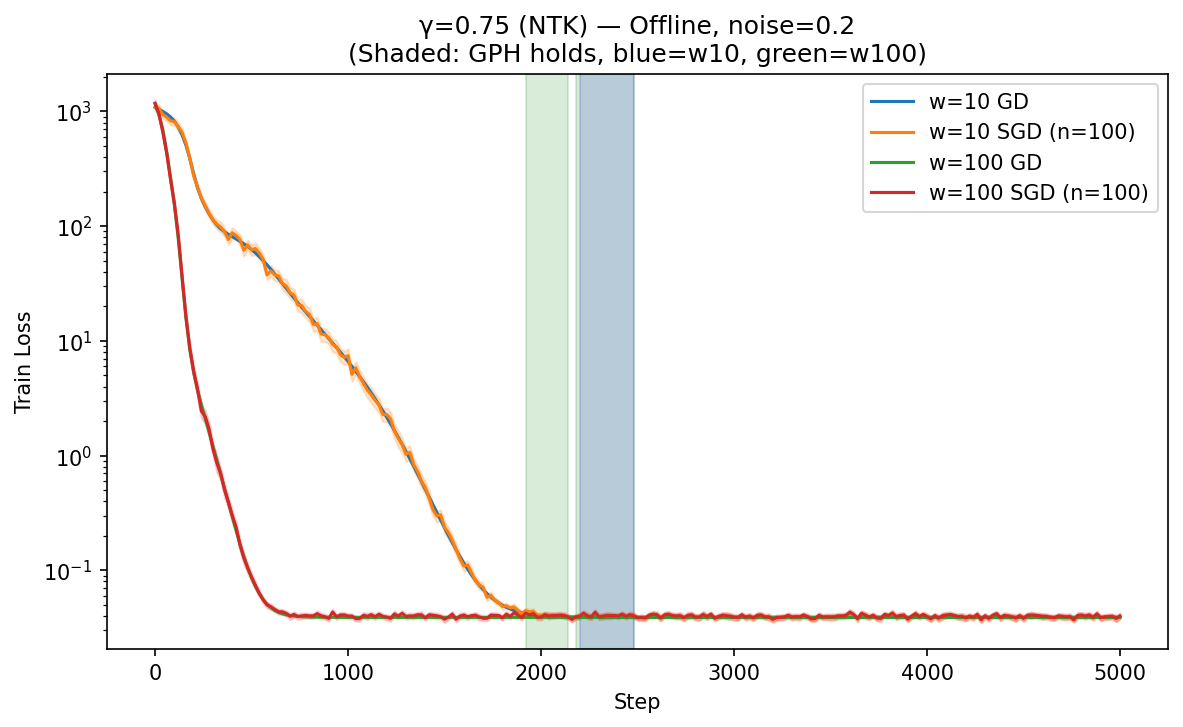
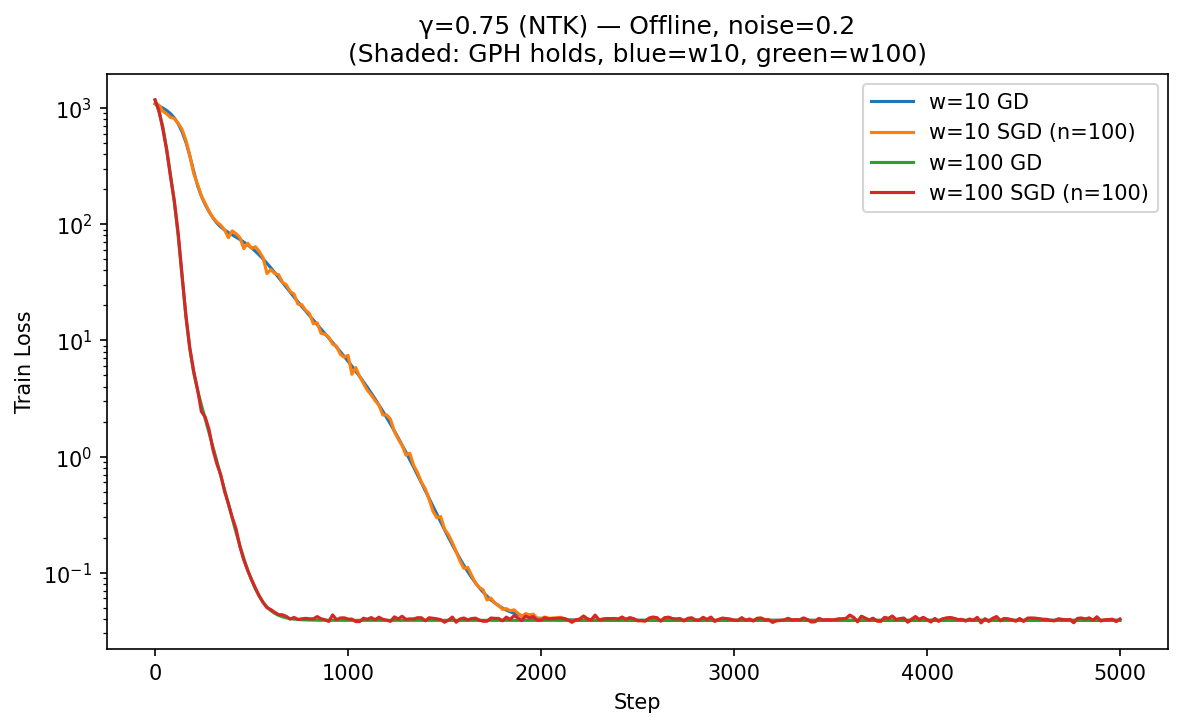
..

diff --git a/plot_100.py b/plot_100.py
@@ -3,21 +3,18 @@ Plot GD vs averaged SGD for width experiments.
 """
 
 # %%
+import json
 import matplotlib.pyplot as plt
 import numpy as np
 from pathlib import Path
 
 from runner import load_run
-from plotting import plot, compute_ci
-
-plt.style.use("seaborn-v0_8-whitegrid")
 
 # %%
 BASE_PATH = Path("outputs/gph_w100")
 FIGURES_PATH = Path("figures/gph_w100")
 FIGURES_PATH.mkdir(parents=True, exist_ok=True)
 
-N_SEEDS = 100
 BATCH_SIZE = 5
 
 WIDTHS = [10, 100]
@@ -34,26 +31,28 @@ MIN_REGION_STEPS = 500
 # =============================================================================
 
 
-def get_path(
-    width: int, gamma: float, batch: int | None, seed: int, online: bool, noise: float
-) -> Path:
-    b_str = "None" if batch is None else str(batch)
-    return BASE_PATH / f"h{width}_g{gamma}_b{b_str}_s{seed}_online{online}_noise{noise}"
+def get_gd_path(width: int, gamma: float, online: bool, noise: float) -> Path:
+    b_str = "500" if online else "None"
+    return BASE_PATH / f"h{width}_g{gamma}_b{b_str}_s0_online{online}_noise{noise}"
+
+
+def get_avg_path(width: int, gamma: float, online: bool, noise: float) -> Path:
+    return (
+        BASE_PATH / f"h{width}_g{gamma}_b{BATCH_SIZE}_avg_online{online}_noise{noise}"
+    )
 
 
 def load_gd(width: int, gamma: float, online: bool, noise: float):
-    batch = 500 if online else None
-    path = get_path(width, gamma, batch, 0, online, noise)
+    path = get_gd_path(width, gamma, online, noise)
     return load_run(path) if path.exists() else None
 
 
-def load_sgd(width: int, gamma: float, online: bool, noise: float):
-    runs = []
-    for seed in range(N_SEEDS):
-        path = get_path(width, gamma, BATCH_SIZE, seed, online, noise)
-        if path.exists() and (path / "history.json").exists():
-            runs.append(load_run(path))
-    return runs
+def load_sgd_avg(width: int, gamma: float, online: bool, noise: float) -> dict | None:
+    path = get_avg_path(width, gamma, online, noise)
+    if not path.exists():
+        return None
+    with open(path / "history.json") as f:
+        return json.load(f)
 
 
 # %%
@@ -89,15 +88,14 @@ def shade_regions(ax, regions, color, alpha=0.15):
 
 def get_regions(width: int, gamma: float, online: bool, noise: float):
     gd = load_gd(width, gamma, online, noise)
-    sgd_runs = load_sgd(width, gamma, online, noise)
+    sgd_avg = load_sgd_avg(width, gamma, online, noise)
 
-    if not gd or not sgd_runs:
+    if not gd or not sgd_avg:
         return []
 
     steps = np.array(gd["step"])
     gd_loss = np.array(gd["train_loss"])
-    sgd_losses = [np.array(r["train_loss"]) for r in sgd_runs]
-    sgd_mean, _, _ = compute_ci(sgd_losses)
+    sgd_mean = np.array(sgd_avg["train_loss_mean"])
 
     return find_gph_holds_regions(gd_loss, sgd_mean, steps, MIN_REGION_STEPS)
 
@@ -129,32 +127,40 @@ def iter_configs():
 for online, noise, gamma, name, title in iter_configs():
     fig, ax = plt.subplots(figsize=(8, 5))
 
-    data = {}
     has_data = False
 
     for width in WIDTHS:
         gd = load_gd(width, gamma, online, noise)
-        sgd_runs = load_sgd(width, gamma, online, noise)
+        sgd_avg = load_sgd_avg(width, gamma, online, noise)
 
-        if not gd or not sgd_runs:
+        if not gd or not sgd_avg:
             print(f"Missing data: w={width}, {name}")
             continue
 
         has_data = True
-        print(f"Plotting: w={width}, {name} ({len(sgd_runs)} SGD runs)")
+        n_runs = sgd_avg["n_runs"]
+        print(f"Plotting: w={width}, {name} (n={n_runs})")
 
+        steps = np.array(gd["step"])
+        gd_loss = np.array(gd["train_loss"])
+        sgd_mean = np.array(sgd_avg["train_loss_mean"])
+
+        # Shade GPH regions
         regions = get_regions(width, gamma, online, noise)
         shade_regions(ax, regions, color=WIDTH_COLORS[width])
 
-        data[f"w={width} GD"] = gd
-        data[f"w={width} SGD (n={len(sgd_runs)})"] = sgd_runs
+        # Plot GD and SGD
+        ax.plot(steps, gd_loss, label=f"w={width} GD")
+        ax.plot(steps, sgd_mean, label=f"w={width} SGD (n={n_runs})")
 
     if not has_data:
         plt.close(fig)
         continue
 
-    plot(data, metric="train_loss", log_scale=True, ax=ax)
+    ax.set_yscale("log")
+    ax.set_xlabel("Step")
     ax.set_ylabel("Train Loss")
+    ax.legend()
     ax.set_title(f"{title}\n(Shaded: GPH holds, blue=w10, green=w100)")
 
     fig.tight_layout()
